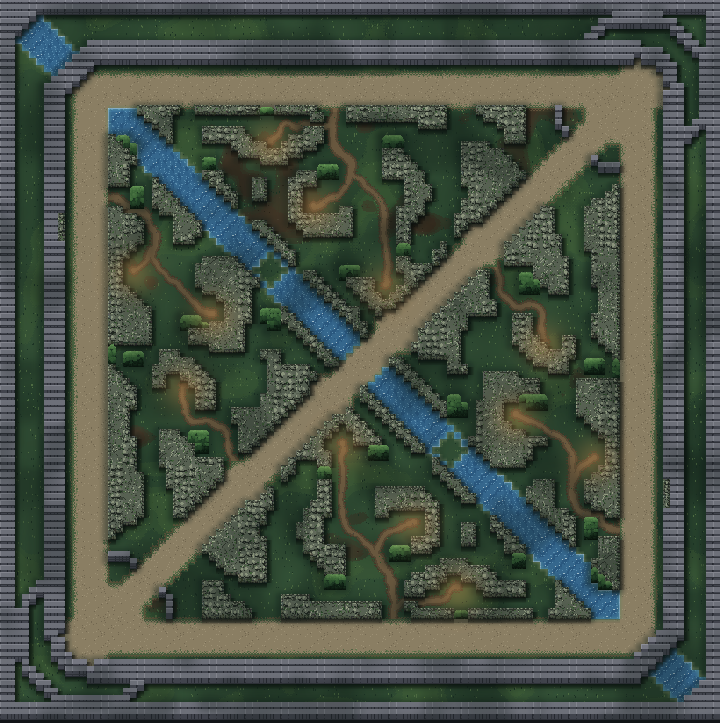
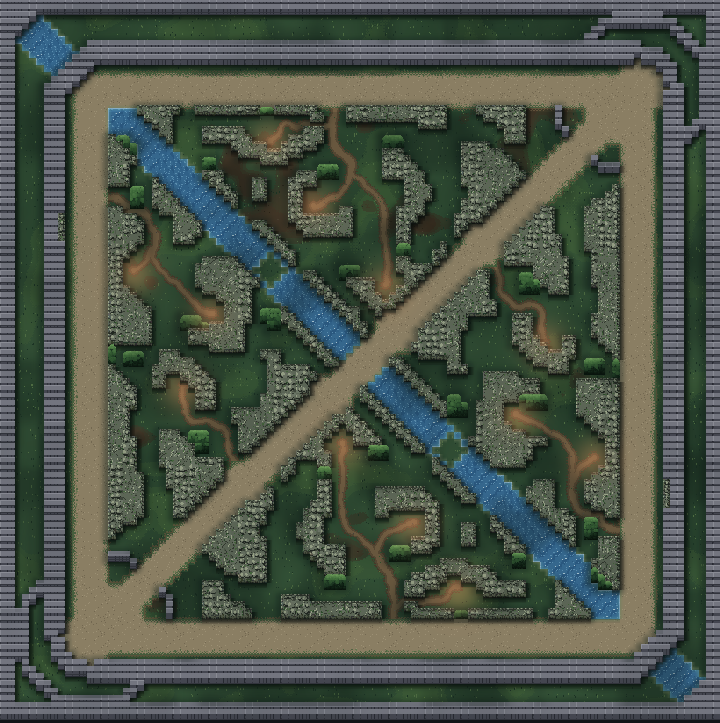
Muri piu leggibili: cima esclusa dal velo di chioma, luce dei campi piu arancio
Il velo della chioma scuriva anche la cima dei muri, appiattendo la differenza
col terreno. Ora sulla cima dei muri (TILE_WALL/TILE_JUNGLE_WALL) la chioma
resta al 30% e la luce calda al 35%: i muri restano nettamente piu chiari del
terreno, anche in minimappa. La maschera a piena risoluzione tiene conto
dell'estrusione (H) marcando anche la fascia della cima. I cespugli non sono
esclusi. Luce dei campi ritoccata su un arancio piu chiaro (meno giallo-verde).

diff --git a/game/map_renderer.py b/game/map_renderer.py
@@ -52,9 +52,13 @@ CANOPY_DARK = (12, 22, 19)       # verde-nero freddo
 CANOPY_BASE = 20                 # velo uniforme sulla giungla (giungla < lane)
 CANOPY_AMP = 64                  # extra nelle chiazze di chioma densa
 # Campi dei mostri: poche macchie di luce calda e tenue (radura illuminata).
-CAMP_WARM = (182, 130, 70)       # luce calda
+CAMP_WARM = (220, 146, 92)       # luce calda, arancio chiaro (meno giallo-verde)
 CAMP_WARM_A = 98                 # alfa al centro della macchia
 CAMP_R_TILES = 3.0               # raggio della macchia di luce
+# Quanto il velo di chioma e la luce calda SI RIDUCONO sulla cima dei muri:
+# i muri devono restare ben piu chiari del terreno (leggibilita del calpestabile).
+WALL_CANOPY_KEEP = 0.30          # la chioma sui muri resta al 30%
+WALL_WARM_KEEP = 0.35            # la luce calda sui muri resta al 35%
 # Vignettatura: leggero scurimento ai bordi dello SCHERMO (screen-space).
 VIGNETTE_COL = (8, 14, 14)
 VIGNETTE_A = 92
@@ -458,13 +462,25 @@ class MapRenderer:
         Wt, Ht = grid.width, grid.height
         W, H = Wt * ts, Ht * ts
         tiles = grid.tiles
-        # Giungla = tutto cio che NON e' lane (a livello tile).
+        # Giungla = tutto cio che NON e' lane (a livello tile). Muri a parte:
+        # la loro CIMA va quasi esclusa dal velo (restano i rilievi piu chiari).
         jungle = np.ones((Ht, Wt), np.float32)
+        wall_t = np.zeros((Ht, Wt), bool)
         for ty in range(Ht):
             row = tiles[ty]
             for tx in range(Wt):
                 if row[tx] == TILE_LANE:
                     jungle[ty, tx] = 0.0
+                elif row[tx] in (TILE_WALL, TILE_JUNGLE_WALL):
+                    wall_t[ty, tx] = True
+        # Maschera dei muri a piena risoluzione: il muro e' estruso verso l'alto
+        # di H, quindi la sua cima cade nella cella SOPRA -> marco anche quella
+        # fascia (indicizzando la riga del muro sia da y//ts che da (y+H)//ts).
+        Hx = self._H
+        ry_base = np.clip(np.arange(H) // ts, 0, Ht - 1)
+        ry_cap = np.clip((np.arange(H) + Hx) // ts, 0, Ht - 1)
+        cx_tile = np.clip(np.arange(W) // ts, 0, Wt - 1)
+        wall_px = (wall_t[ry_base][:, cx_tile] | wall_t[ry_cap][:, cx_tile])  # (H, W) bool
         # Rumore a bassa frequenza (chiome) per tile -> chiazze d'ombra densa.
         TX = np.arange(Wt, dtype=np.float32)[None, :]
         TY = np.arange(Ht, dtype=np.float32)[:, None]
@@ -502,9 +518,14 @@ class MapRenderer:
                     continue
                 dx = px_x - cxp; dy = ry - cyp
                 np.maximum(w, np.exp(-(dx * dx + dy * dy) / (Rpx * Rpx)), out=w)
+            # Sulla CIMA dei muri il velo si riduce quasi a zero e la luce calda
+            # si attenua: i muri restano nettamente piu chiari del terreno.
+            wpx = wall_px[yb:ye]
+            keep_canopy = np.where(wpx, WALL_CANOPY_KEEP, 1.0).astype(np.float32)
+            keep_warm = np.where(wpx, WALL_WARM_KEEP, 1.0).astype(np.float32)
             # Ombra della chioma (ridotta vicino ai campi) + luce calda, composite.
-            ad = (CANOPY_BASE + CANOPY_AMP * sden_px) * jung_px * (1.0 - 0.85 * w)
-            aw = CAMP_WARM_A * w
+            ad = (CANOPY_BASE + CANOPY_AMP * sden_px) * jung_px * (1.0 - 0.85 * w) * keep_canopy
+            aw = CAMP_WARM_A * w * keep_warm
             ad01 = ad / 255.0; aw01 = aw / 255.0
             out_a = aw01 + ad01 * (1.0 - aw01)
             denom = np.where(out_a > 1e-4, out_a, 1.0)

diff --git a/CLAUDE.md b/CLAUDE.md
@@ -102,11 +102,19 @@ Passaggi completati:
   _build_lighting), SOPRA le unita: (a) ombre della chioma = rumore a bassa
   frequenza (_np_vnoise, chiazze ~6 tile) scuro #0C1613, SOLO sulla giungla
   (tutto cio che non e' TILE_LANE) con un velo base uniforme -> la giungla resta
-  piu cupa delle lane; (b) poche macchie di luce calda #B68246 vicino ai campi
-  (falloff gaussiano, raggio ~3 tile) che "aprono" la chioma scurita (radura
-  illuminata); (c) composite warm-over-dark premoltiplicato in un'unica RGBA per
-  pixel, calcolato a strisce (niente array a piena mappa) e blittato a blocchi
-  CHUNK lazy. Alfe contenute: le unita restano leggibili. Vignettatura leggera
+  piu cupa delle lane; (b) poche macchie di luce calda #DC925C (arancio chiaro)
+  vicino ai campi (falloff gaussiano, raggio ~3 tile) che "aprono" la chioma
+  scurita (radura illuminata); (c) composite warm-over-dark premoltiplicato in
+  un'unica RGBA per pixel, calcolato a strisce (niente array a piena mappa) e
+  blittato a blocchi CHUNK lazy. Alfe contenute: le unita restano leggibili.
+  LEGGIBILITA' DEI MURI: la cima dei muri (TILE_WALL/TILE_JUNGLE_WALL) e' quasi
+  esclusa dal velo di chioma (resta al 30%, WALL_CANOPY_KEEP) e attenua la luce
+  calda (resta al 35%, WALL_WARM_KEEP), cosi i muri restano nettamente piu
+  chiari del terreno (a colpo d'occhio e in minimappa si distingue il
+  calpestabile). I muri sono estrusi verso l'alto di H, quindi la maschera a
+  piena risoluzione (wall_px) marca anche la fascia della CIMA indicizzando la
+  riga del muro sia da y//ts sia da (y+H)//ts. I cespugli NON sono esclusi (sono
+  vegetazione: il velo ci sta bene). Vignettatura leggera
   (VIGNETTE_*) scurisce i bordi dello SCHERMO: screen-space, costruita una volta
   per dimensione vista (_vignette, cache) e blittata per ultima in draw_canopy,
   NON nei layer di mappa. Screenshot: screenshots/step_7.png (ravvicinato con
